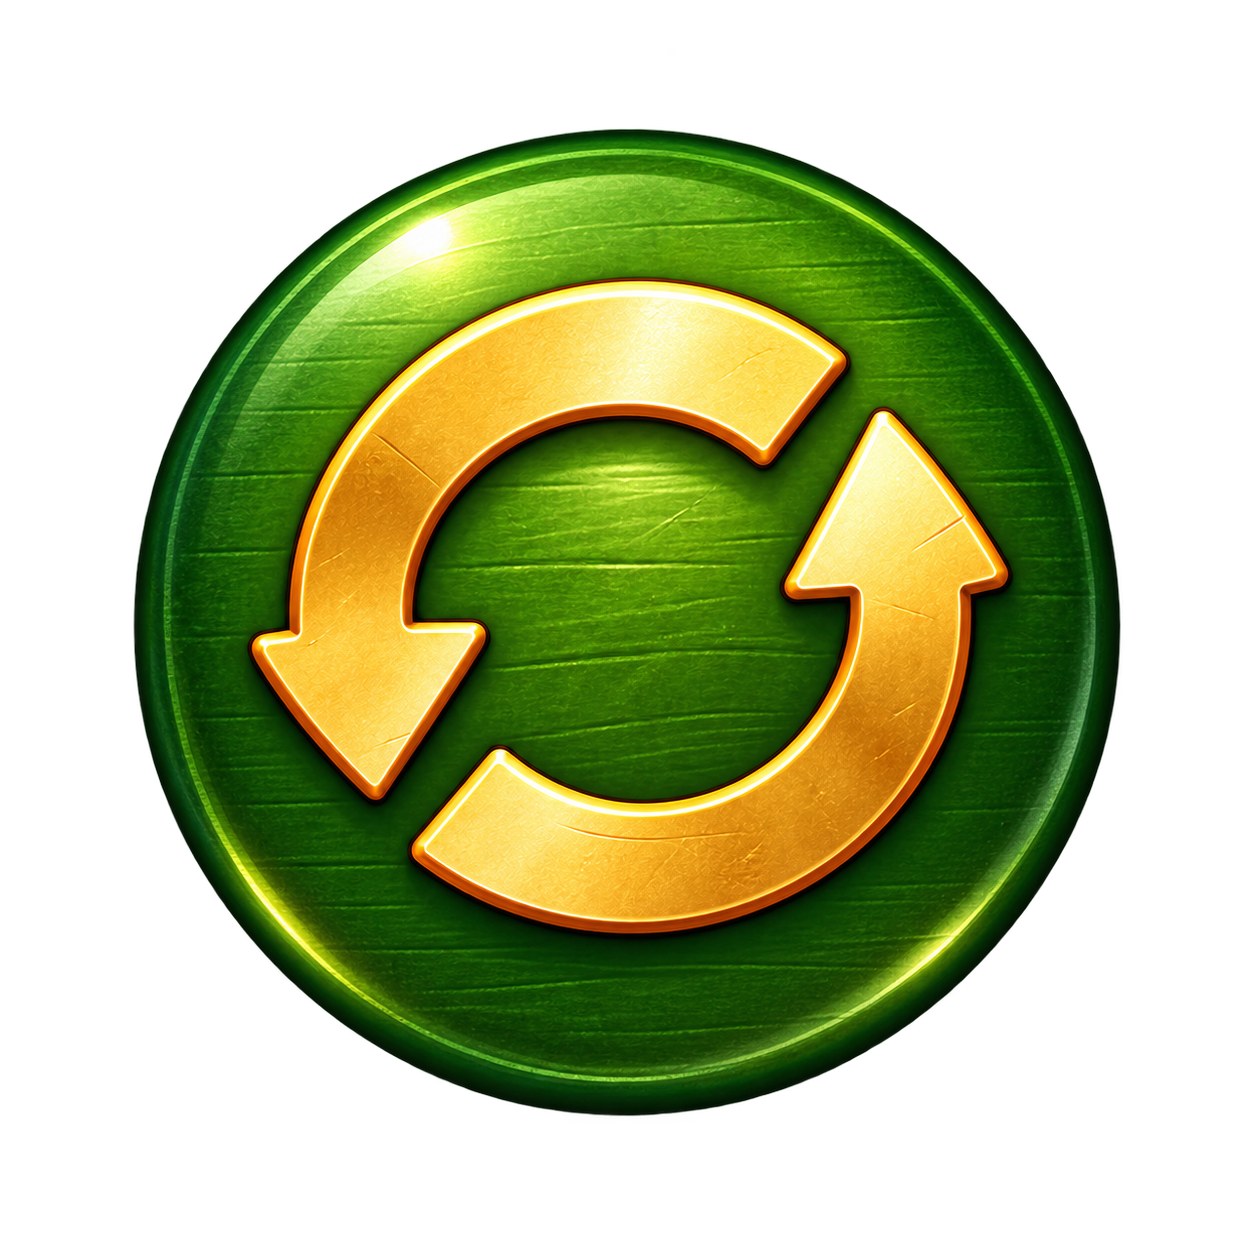
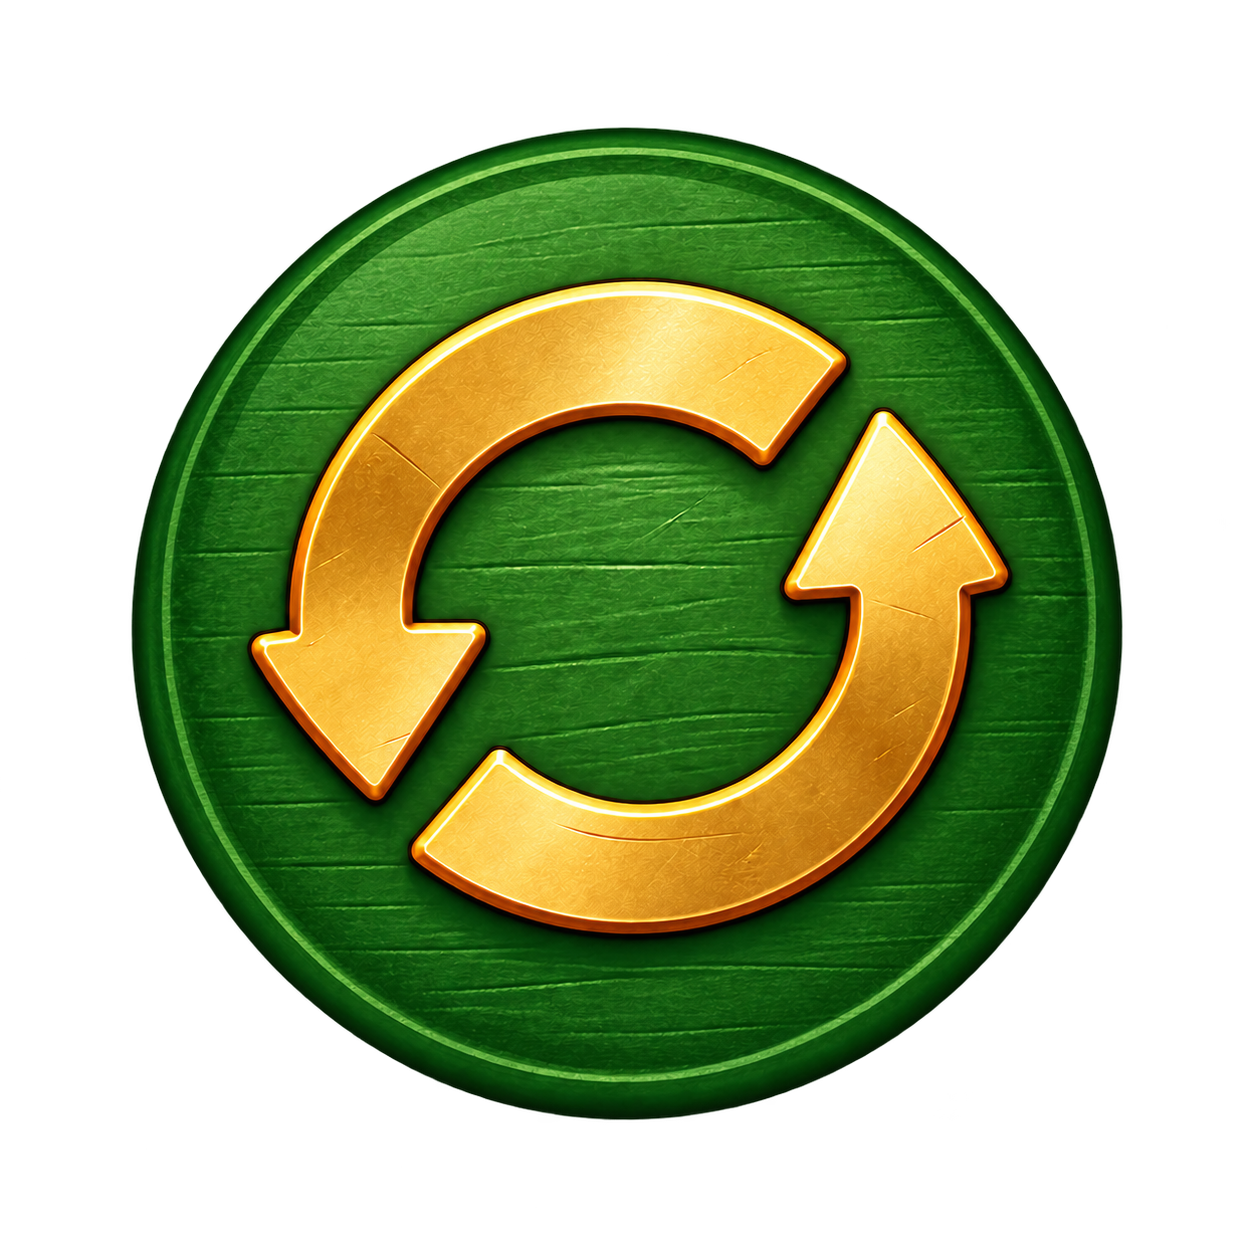
Feature: adding new assets to spin button

diff --git a/src/game/scenes/SlotMachine.ts b/src/game/scenes/SlotMachine.ts
@@ -33,7 +33,7 @@ export class SlotMachine extends Scene {
     private reels: Reel[] = [];
 
     private spinBtn?:
-        GameObjects.Rectangle;
+        GameObjects.Image;
 
     private autoSpinBtn?:
         GameObjects.Rectangle;
@@ -105,6 +105,13 @@ export class SlotMachine extends Scene {
     private isTurboMode = false;
 
     /**
+     * Velocidade angular do botão Spin,
+     * em graus por segundo.
+     */
+    private spinRotationSpeed =
+        GameConfig.spinButtonAnimation.idleSpeed;
+
+    /**
      * Rodadas mais recentes, da mais nova
      * para a mais antiga.
      */
@@ -153,6 +160,19 @@ export class SlotMachine extends Scene {
         this.updateBetButtons();
 
         this.createWinPresentation();
+    }
+
+    update(
+        _time: number,
+        delta: number
+    ): void {
+        if (!this.spinBtn) {
+            return;
+        }
+
+        this.spinBtn.angle -=
+            this.spinRotationSpeed *
+            delta / 1000;
     }
 
     // =====================================================
@@ -527,18 +547,63 @@ export class SlotMachine extends Scene {
             GameConfig.layout.spinButton;
 
         this.spinBtn =
-            this.createActionButton(
+            this.add.image(
                 button.x,
                 button.y,
-                button.width,
-                button.height,
-                'SPIN',
-                GameConfig.colors.button,
-                GameConfig.colors.buttonText,
-                () => {
-                    this.spin();
-                }
-            );
+                'slotMachineSpinButton'
+            )
+                .setDisplaySize(
+                    button.width,
+                    button.height
+                )
+                .setInteractive();
+
+        this.spinBtn.on(
+            'pointerdown',
+            () => {
+                this.spin();
+            }
+        );
+
+        this.startSpinIdleAnimation();
+    }
+
+    private startSpinIdleAnimation(): void {
+        this.tweens.killTweensOf(this);
+
+        this.spinRotationSpeed =
+            GameConfig.spinButtonAnimation.idleSpeed;
+    }
+
+    private playSpinPressedAnimation(): void {
+        const animation =
+            GameConfig.spinButtonAnimation;
+
+        this.tweens.killTweensOf(this);
+
+        this.tweens.add({
+            targets: this,
+            spinRotationSpeed:
+                animation.boostSpeed,
+            duration: animation.boostDuration,
+            ease: 'Sine.easeIn',
+            onComplete: () => {
+                this.returnToIdleSpinSpeed();
+            },
+        });
+    }
+
+    private returnToIdleSpinSpeed(): void {
+        const animation =
+            GameConfig.spinButtonAnimation;
+
+        this.tweens.add({
+            targets: this,
+            spinRotationSpeed:
+                animation.idleSpeed,
+            duration: animation.returnDuration,
+            ease: 'Sine.easeOut',
+        });
     }
 
     private createAutoSpinButton(): void {
@@ -865,6 +930,8 @@ export class SlotMachine extends Scene {
 
         this.disableControls();
 
+        this.playSpinPressedAnimation();
+
         // -----------------------------------------
         // DESCONTA A APOSTA
         // -----------------------------------------
@@ -1070,10 +1137,7 @@ export class SlotMachine extends Scene {
     // =====================================================
 
     private disableControls(): void {
-        this.setButtonEnabled(
-            this.spinBtn,
-            false
-        );
+        this.setSpinButtonEnabled(false);
 
         this.setButtonEnabled(
             this.betDecreaseBtn,
@@ -1087,8 +1151,7 @@ export class SlotMachine extends Scene {
     }
 
     private enableControls(): void {
-        this.setButtonEnabled(
-            this.spinBtn,
+        this.setSpinButtonEnabled(
             !this.isAutoSpinning
         );
 
@@ -1159,6 +1222,26 @@ export class SlotMachine extends Scene {
             .setFillStyle(
                 GameConfig.colors.disabledButton
             );
+    }
+
+    private setSpinButtonEnabled(
+        enabled: boolean
+    ): void {
+        if (!this.spinBtn) {
+            return;
+        }
+
+        if (enabled) {
+            this.spinBtn
+                .setInteractive()
+                .setAlpha(1);
+
+            return;
+        }
+
+        this.spinBtn
+            .disableInteractive()
+            .setAlpha(0.55);
     }
 
     private showError(

diff --git a/src/game/config/GameConfig.ts b/src/game/config/GameConfig.ts
@@ -49,6 +49,13 @@ export const GameConfig = {
         maxEntries: 10,
     },
 
+    spinButtonAnimation: {
+        idleSpeed: 30,
+        boostSpeed: 1800,
+        boostDuration: 180,
+        returnDuration: 2020,
+    },
+
     winPresentation: {
         lineDuration: 900,
 
@@ -174,10 +181,10 @@ export const GameConfig = {
         },
 
         spinButton: {
-            x: 535,
-            y: 1575,
-            width: 150,
-            height: 150,
+            x: 536,
+            y: 1578,
+            width: 215,
+            height: 215,
         },
 
         autoSpinButton: {

diff --git a/src/game/scenes/Preloader.ts b/src/game/scenes/Preloader.ts
@@ -60,6 +60,11 @@ export class Preloader extends Scene {
         );
 
         this.load.image(
+            'slotMachineSpinButton',
+            'CornGame/Spin_Button.png'
+        );
+
+        this.load.image(
             'symbolCrow',
             'CornGame/corvo_.png'
         );
